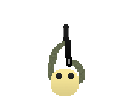
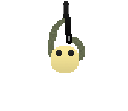
lumen: update font and add new rotational lerping

Changed region(s): [[0.375, 0.0, 0.6875, 0.8649]]

diff --git a/client/canvas/map.js b/client/canvas/map.js
@@ -87,7 +87,7 @@ module.exports = class MapCanvas {
 
     drawText(text, color, fontSize, x, y,
         align = 'left', fontStyle = '', maxWidth = 0,
-        fontFamily = 'Roboto Slab') {
+        fontFamily = 'Prompt') {
         this.context.font = fontStyle + ' ' + fontSize + 'px ' + fontFamily;
         this.context.fillStyle = color;
         this.context.textAlign = align;
@@ -431,6 +431,11 @@ module.exports = class MapCanvas {
                             this.context.globalAlpha = 0.5;
                         }
 
+                        // Desired Rotation
+                        const desiredRotation = mapObject.rotation;
+                        const currentRotation = mapObject.currentRotation;
+                        mapObject.currentRotation = currentRotation + 0.3 * (desiredRotation - currentRotation);
+
                         if (animationManager.hasAnimation()) {
                             // Draw any animations in the animation stack
                             const possiblePositionChange =
@@ -447,10 +452,7 @@ module.exports = class MapCanvas {
                                             possiblePositionChange.x, possiblePositionChange.y,
                                             units[name].image.width,
                                             units[name].image.height,
-                                            mapObject.rotation);
-                                        if (this.state.selectedObject === mapObject) {
-                                            mapObject.rotation = this.calculateRotation(possiblePositionChange);
-                                        }
+                                            mapObject.currentRotation);
                                     }
                                 }
                                 actualDrawnPosition = possiblePositionChange;
@@ -474,10 +476,7 @@ module.exports = class MapCanvas {
                                     this.drawImage(units[name].image, drawCoord.x, drawCoord.y,
                                         units[name].image.width,
                                         units[name].image.height,
-                                        mapObject.rotation);
-                                    if (this.state.selectedObject === mapObject) {
-                                        mapObject.rotation = this.calculateRotation(drawCoord);
-                                    }
+                                        mapObject.currentRotation);
                                 }
                             }
                             else {

diff --git a/client/animation.js b/client/animation.js
@@ -22,6 +22,8 @@ class MapObjectAnimation extends BaseAnimator {
     draw(graphicsManager, position) {
         return this._draw(graphicsManager, position);
     }
+    _getPosition() { return undefined; }
+
     getPosition() {
         return this._getPosition();
     }
@@ -30,8 +32,9 @@ class MapObjectAnimation extends BaseAnimator {
 class MoveUnitAnimation extends MapObjectAnimation {
     /* Speed is time it takes to move from one point to another
      * in terms of ticks */
-    constructor(points, speed, onDone = () => {}) {
+    constructor(unit, points, speed, onDone = () => {}) {
         super(onDone);
+        this.unit = unit;
         console.log(points);
         this.points = points.map((x) => toDrawCoord(x));
         console.log(this.points);
@@ -52,6 +55,9 @@ class MoveUnitAnimation extends MapObjectAnimation {
         const delta = (this.totalTicks - fromIndex * this.speed) / this.speed;
         const newX = fromPoint.x + delta * (toPoint.x - fromPoint.x);
         const newY = fromPoint.y + delta * (toPoint.y - fromPoint.y);
+        
+        // Actually modify the unit's rotation
+        this.unit.rotation = Math.atan2(toPoint.y - fromPoint.y, toPoint.x - fromPoint.x) + (Math.PI / 2);
         this.position = new Tuple(newX, newY);
         return true;
     }
@@ -62,6 +68,10 @@ class MoveUnitAnimation extends MapObjectAnimation {
 
     _getPosition() {
         return this.position;
+    }
+
+    _getRotation() {
+        return this.rotation;
     }
 }
 

diff --git a/client/canvas/ui.js b/client/canvas/ui.js
@@ -91,15 +91,15 @@ module.exports = class UICanvas {
         // Gold
         this.context.textBaseline = 'middle';
         this.context.fillStyle = 'white';
-        this.context.font = 'bold 32px Roboto Slab';
+        this.context.font = 'bold 32px Prompt';
         this.context.fillText(this.state.getGold(), screenWidth - 170, screenHeight - 181);
         this.context.textBaseline = 'alphabetic';
         
         // Show Timer
         this.context.fillStyle = 'black';
-        this.context.font = 'bold 18px Roboto Slab';
+        this.context.font = 'bold 18px Prompt';
         
-        this.context.fillText('∣ ' + this.state.gameTimer, screenWidth / 2 + 60, 60);
+        this.context.fillText('∣ ' + this.state.gameTimer, screenWidth / 2 + 55, 60);
 
         const timerBar = this.resourceManager.get(Resource.UI_TIMER_BAR);
         
@@ -110,8 +110,8 @@ module.exports = class UICanvas {
 
         // Show Phase Text
         this.context.fillStyle = 'black';
-        this.context.font = 'bold 18px Roboto Slab';
-        this.context.fillText(this.state.phaseText, screenWidth / 2 - 85, 60);
+        this.context.font = 'bold 18px Prompt';
+        this.context.fillText(this.state.phaseText, screenWidth / 2 - 90, 60);
     }
 
     drawMinimap(screenWidth, screenHeight) {

diff --git a/client/dist/index.html b/client/dist/index.html
@@ -6,6 +6,7 @@
 	<title>Lumen Astrum</title>
 	<link href="https://fonts.googleapis.com/css?family=Roboto+Slab" rel="stylesheet">
 	<link href="https://fonts.googleapis.com/css?family=Montserrat" rel="stylesheet">
+	<link href="https://fonts.googleapis.com/css?family=Prompt" rel="stylesheet">
 	<link href='https://fonts.googleapis.com/css?family=Asap' rel='stylesheet'>
 	<link href='https://fonts.googleapis.com/css?family=Patua+One' rel='stylesheet'>
 	<link rel="stylesheet" href="main.css"/>

diff --git a/client/client-state.js b/client/client-state.js
@@ -214,7 +214,7 @@ module.exports = class ClientState {
                         this.unitAttackRange = [];
                     }
                     unit.animationManager.addAnimation(
-                        new MoveUnitAnimation(path, 10, () => {
+                        new MoveUnitAnimation(unit, path, 10, () => {
                             if (currentlySelected && !this.selectedObject) {
                                 this.selectObject(unit);
                             }

diff --git a/shared/map-objects.js b/shared/map-objects.js
@@ -63,6 +63,9 @@ module.exports.Unit = class {
         this.desiredPath = [];
         this.targetPoint = undefined;
 
+        // Rotation is the desired rotation
+        this.currentRotation = 0;
+
         /* This stores any unit specific custom data */
         this.custom = Data.units[name].custom;
 
